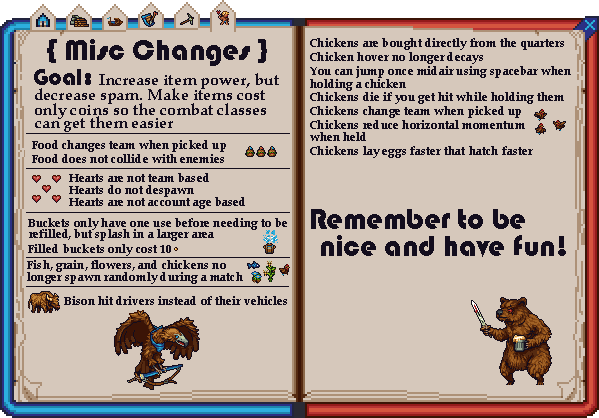
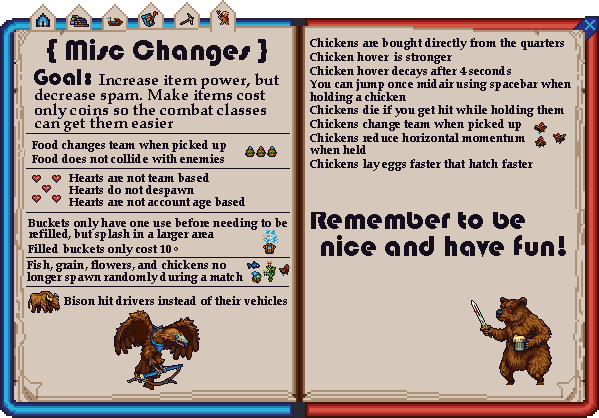
Chicken Nerfs
Chicken hover decays after 4 seconds, reset when on ground. Refactored chicken jump reset code

Changed region(s): [[0.5109, 0.1244, 0.9616, 0.4043], [0.5109, 0.4976, 0.5409, 0.5287]]

diff --git a/README.md b/README.md
@@ -517,8 +517,9 @@ DISCLAIMER: Developed without compatibility with other mods in mind, so there's 
 
 ### Chickens
 - Are bought directly from the quarters for 50 coins
-- Hover no longer decays
-    - You can press `s` to drop while holding a chicken
+- Hover is stronger
+- Hover decays after 4 seconds
+- You can press `s` to not hover while holding a chicken
 - Can now jump once midair using space
     - Jump resets wall climb as well
 - Dies if player holding it takes damage from an enemy
